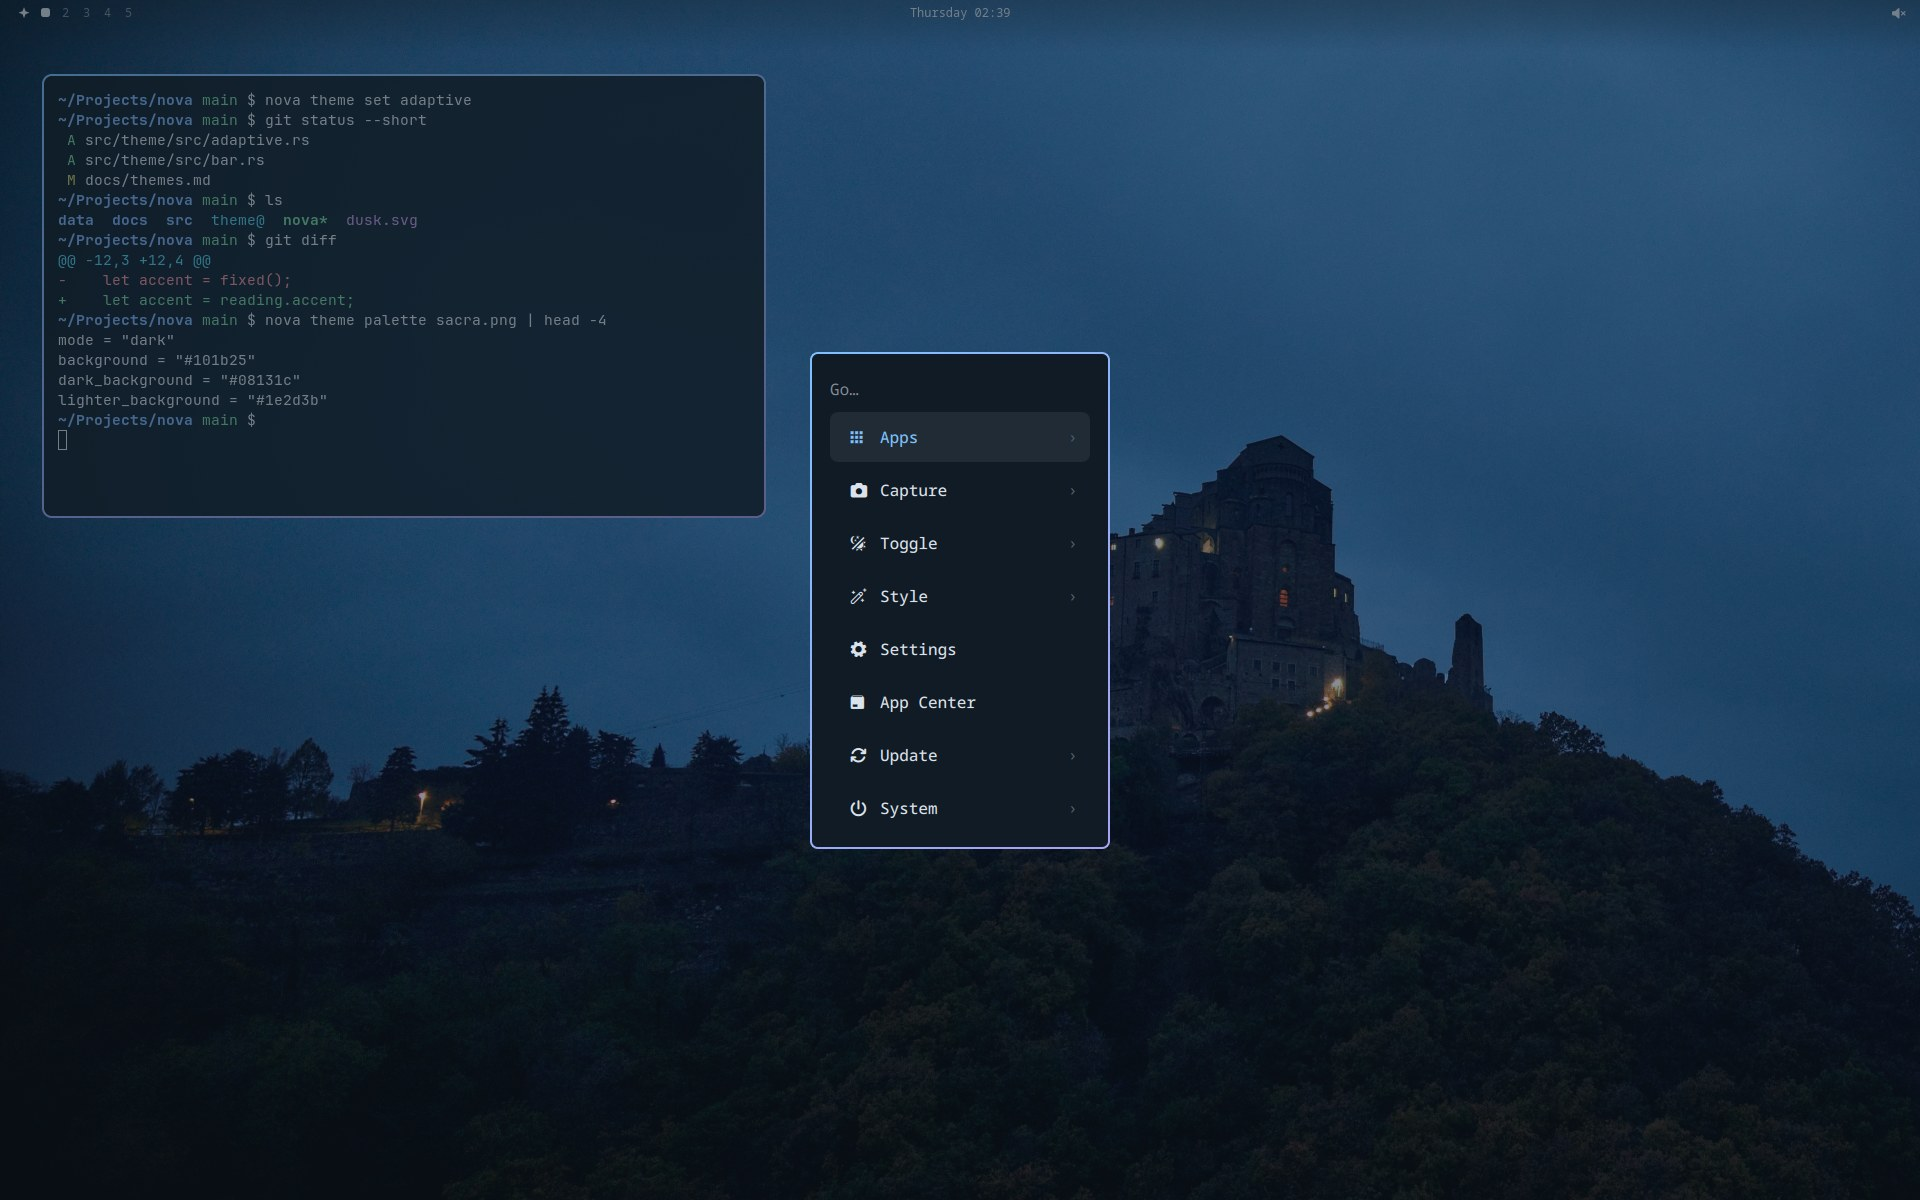
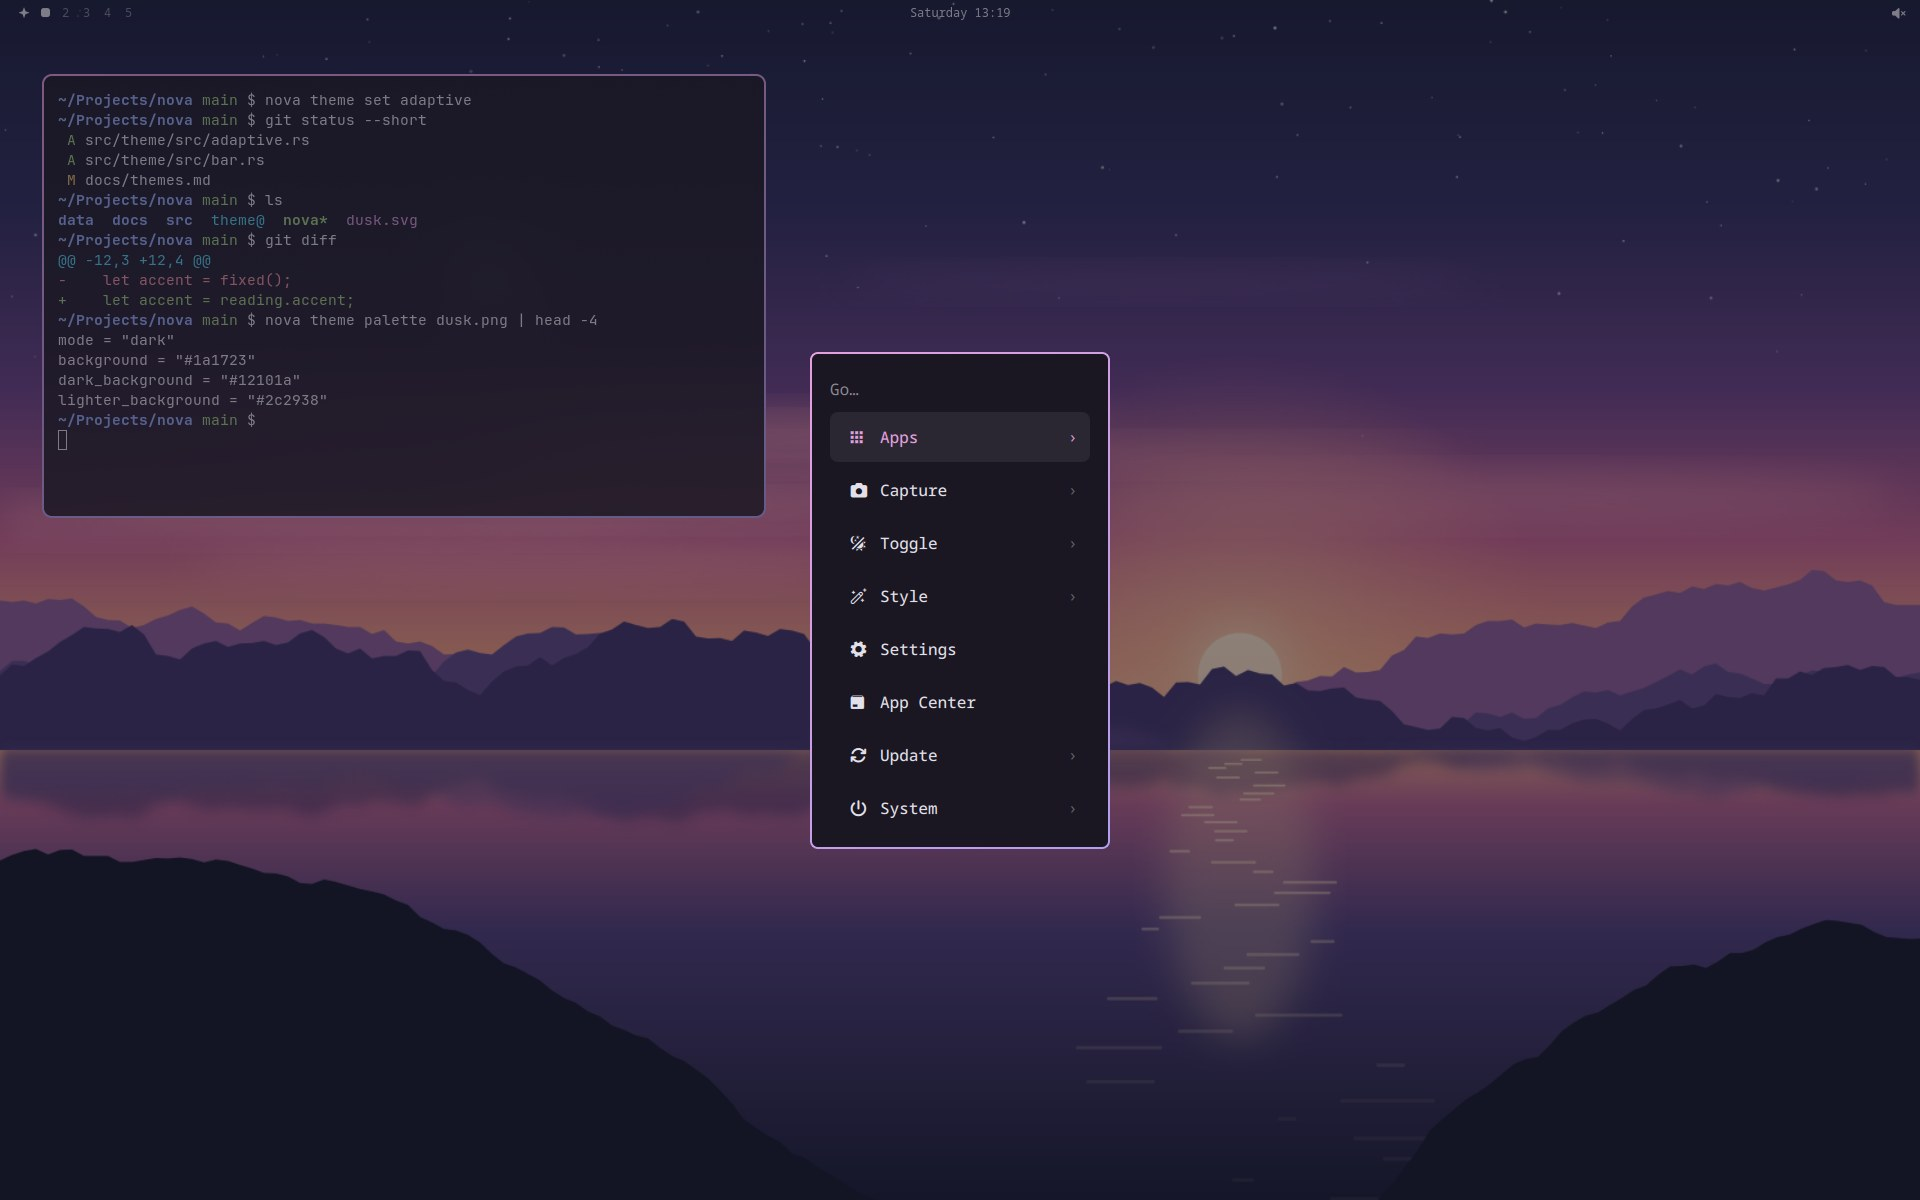
docs: provisional pictures over dusk, the App Center and the welcome among them, and dusk's light palette
The published pictures showed a photo of the owner's own background; these
are taken over dusk.svg by tools/screenshots, with an App Center that lists
nothing installed. The light palette lets the site's adaptive theme follow a
visitor's light or dark setting. The final pictures are taken after the
RC15 branches merge.

diff --git a/docs/using.md b/docs/using.md
@@ -87,7 +87,7 @@ A change of display settings goes back by itself after 15 seconds unless you kee
 
 ### Calendar
 
-<img src="images/calendar.jpg" alt="The calendar at a week, with events on five of its days, and the tasks beside it" width="720">
+<img src="images/calendar.jpg" alt="The calendar at a week, with events on three of its days, and the tasks beside it" width="720">
 
 Events and tasks by day, week or month: from the clock's card, or `nova calendar [day|week|month] [date]` (`2026-10-29`, `tomorrow`, `next friday`).
 

diff --git a/README.md b/README.md
@@ -18,7 +18,7 @@
 
 <p>
 <img src="docs/images/menu.jpg" alt="The Nova menu in the middle of the screen: a search field, then Apps, Capture, Toggle, Style, Settings, App Center, Update and System" width="49%">
-<img src="docs/images/calendar.jpg" alt="The calendar at a week, with events on five of its days, and the tasks beside it" width="49%">
+<img src="docs/images/calendar.jpg" alt="The calendar at a week, with events on three of its days, and the tasks beside it" width="49%">
 </p>
 
 ## Install
